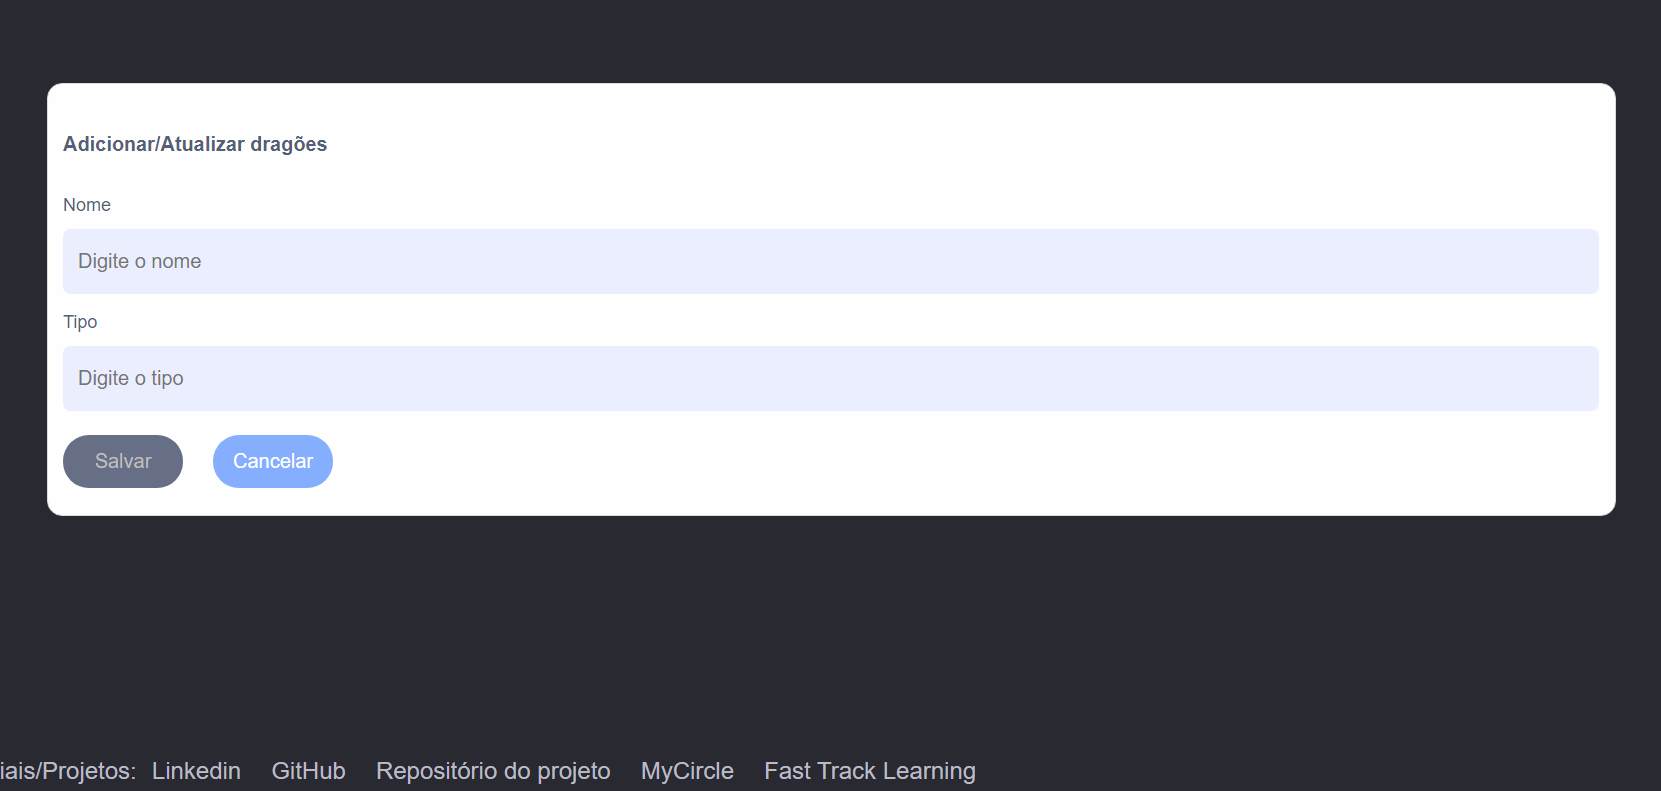
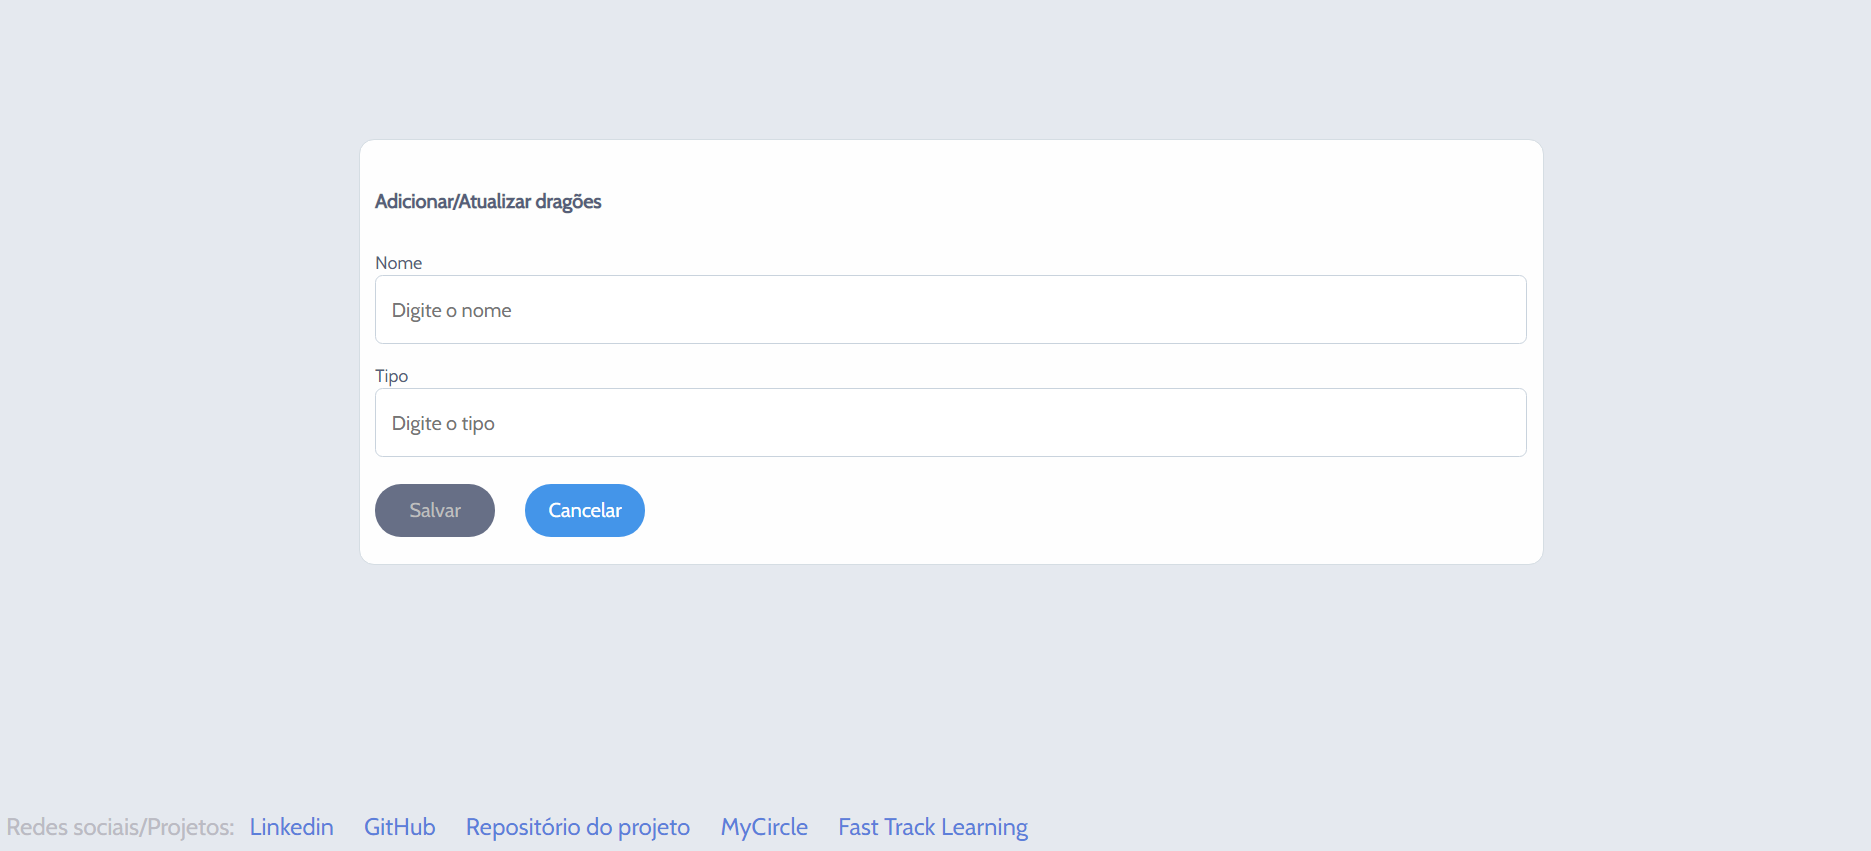
ajuste form e atualização imagens

diff --git a/src/app/dragoes-editar/dragoes-editar.component.html b/src/app/dragoes-editar/dragoes-editar.component.html
@@ -8,7 +8,7 @@
           <input type="text" [(ngModel)]="dragao.name"
                  id="name" name="name"
                  #name="ngModel" required
-                 class="form-control" [ngClass]="{ 'is-invalid': f.submitted && name.invalid }"
+                 class="form-control mb-10" [ngClass]="{ 'is-invalid': f.submitted && name.invalid }"
                  placeholder="Digite o nome">
           <div *ngIf="f.submitted && name.invalid" class="invalid-feedback">
             <div *ngIf="name.errors.required">Nome é obrigatório</div>
@@ -18,6 +18,7 @@
           <span class="text-muted">Tipo</span>
           <input type="text" [(ngModel)]="dragao.type"
                  id="type" name="type"
+                 class="mb-10"
                  #type="ngModel" [ngClass]="{ 'is-invalid': f.submitted && type.invalid }"
                  placeholder="Digite o tipo" required>
           <div *ngIf="f.submitted && type.invalid" class="invalid-feedback">

diff --git a/src/app/dragoes-editar/dragoes-editar.component.scss b/src/app/dragoes-editar/dragoes-editar.component.scss
@@ -1,6 +1,7 @@
 #edit-form{
   padding-top: 100px;
   span{
+    padding-top:50px;
     font-size: 12px;
   }
 
@@ -20,18 +21,28 @@
     }
   }
   input[type = "text"]{
-    background: #ebeeff;
-    border: 0;
+    display: block;
+    margin:auto;
+    background: #FFF;
+    border: 1px solid #C9D3DD;
     border-radius: 5px;
     padding: 14px 10px;
     width: 100%;
     outline: none;
-    color: #212121;
+    color: #333333;
     -webkit-transition: all .2s ease-out;
     -moz-transition: all .2s ease-out;
     -ms-transition: all .2s ease-out;
     -o-transition: all .2s ease-out;
     transition: all .2s ease-out;
+  }
+  input[type = "text"]:focus{
+    border: 1px solid #006ba1;
+  }
+  @media screen and (min-width: 800px) {
+    .general-form{
+      width: 60% !important;
+    }
   }
 }
 

diff --git a/src/app/dragoes-editar/dragoes-editar.component.css b/src/app/dragoes-editar/dragoes-editar.component.css
@@ -19,19 +19,28 @@
   background: #565f79;
   color: #b7b7b7;
 }
-#edit-form input[type=text] {
-  background: #ebeeff;
-  border: 0;
+#edit-form input[type = "text"] {
+  display: block;
+  margin:auto;
+  background: #fff;
+  border: 1px solid #c9d3dd;
   border-radius: 5px;
   padding: 14px 10px;
   width: 100%;
   outline: none;
-  color: #212121;
+  color: #333;
   -webkit-transition: all 0.2s ease-out;
   -moz-transition: all 0.2s ease-out;
   -ms-transition: all 0.2s ease-out;
   -o-transition: all 0.2s ease-out;
   transition: all 0.2s ease-out;
 }
+#edit-form input[type = "text"]:focus {
+  border: 1px solid #006ba1;
+}
+@media screen and (min-width: 800px) {
+  .general-form{
+    width: 60% !important;
+  }
+}
 
-/*# sourceMappingURL=dragoes-editar.component.css.map */

diff --git a/src/app/dragoes-detalhe/dragoes-detalhe.component.scss b/src/app/dragoes-detalhe/dragoes-detalhe.component.scss
@@ -9,6 +9,7 @@
       margin: auto;
       text-align: center;
       padding-top: 15px;
+      color:#4e7b96;
     }
 
     .fl-table {
@@ -47,20 +48,16 @@
 
       thead th {
         color: #4e7b96;
-        background: #e8edf2;
+        background: #c8d3dd;
       }
 
-
-      tr:nth-child(even) {
-        background: #F8F8F8;
-      }
 
       tr:active {
         animation: animatezoom2 0.6s;
       }
 
       tr:hover {
-        background-color: #ebeeff;
+        background-color: #ecf0f5;
       }
 
       @media (max-width: 800px) {

diff --git a/src/app/dragoes-detalhe/dragoes-detalhe.component.html b/src/app/dragoes-detalhe/dragoes-detalhe.component.html
@@ -3,7 +3,7 @@
     Sair
   </div>
   <div class="table-wrapper">
-    <h3 class="text-white title">Dragões</h3>
+    <h3 class="title">Dragões</h3>
     <button type="button" class="btn-default float-rigth mt-40" (click)="addDragon()">Inserir +</button>
     <table class="fl-table">
       <thead>
